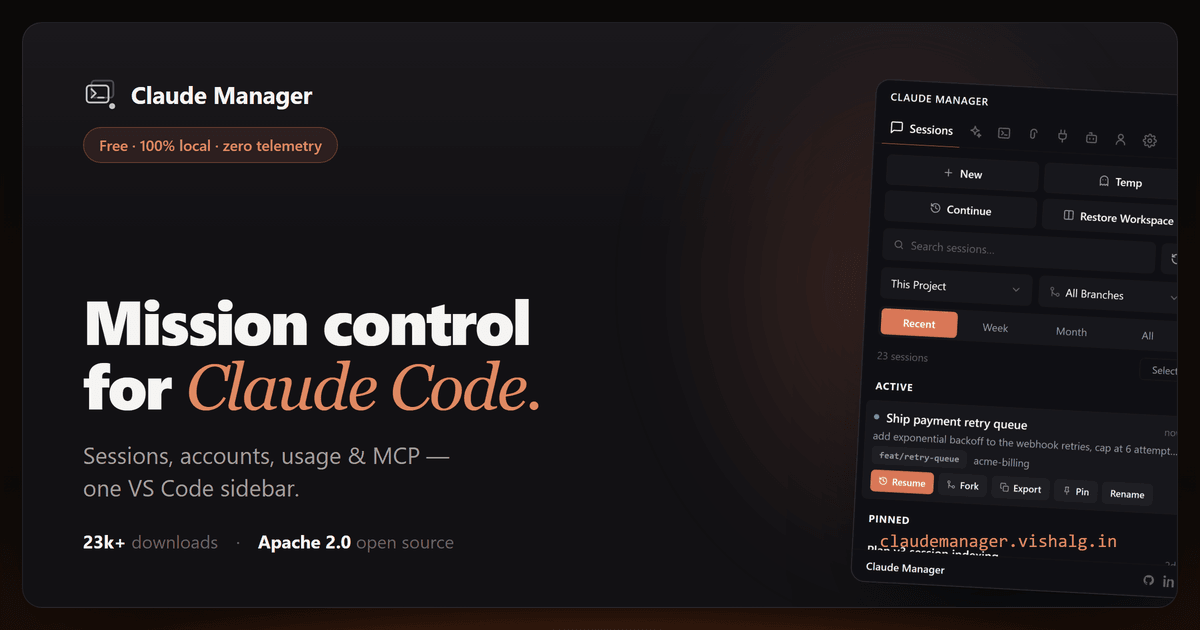
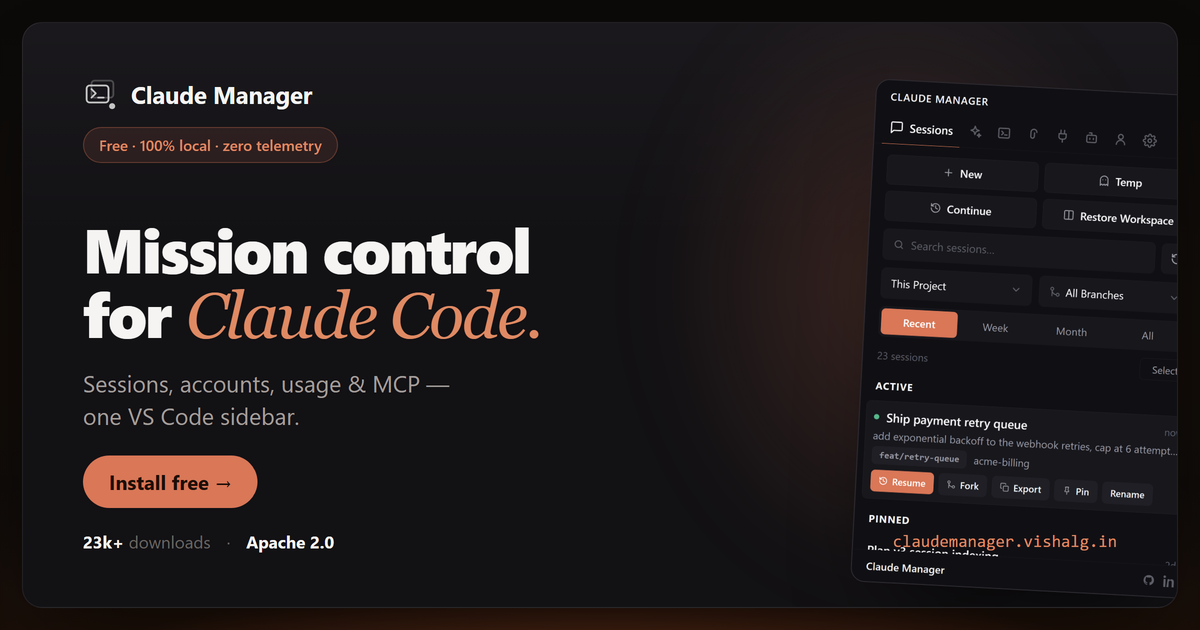
fix(site): trim meta titles/descriptions under limits + OG CTA
- title 80->54, meta desc 247->147 (Google snippet fit)
- og/twitter title 61->52, description 154->112 (no social truncation)
- og.png: add "Install free" CTA button (click-through lift)

Changed region(s): [[0.0617, 0.3619, 0.4625, 0.8143], [0.0617, 0.8444, 0.37, 0.8746], [0.74, 0.8444, 0.925, 0.8746]]

diff --git a/site/index.html b/site/index.html
@@ -5,8 +5,8 @@
   <meta name="viewport" content="width=device-width, initial-scale=1.0">
   <meta name="theme-color" content="#0c0a09">
 
-  <title>Claude Manager — Manage Claude Code Sessions, MCP, Skills &amp; Usage in VS Code</title>
-  <meta name="description" content="Claude Manager is a free VS Code extension to browse and resume Claude Code sessions, switch Claude accounts, track token usage, and manage MCP servers, skills, slash commands, hooks, and agents — all from your sidebar. 100% local, zero telemetry.">
+  <title>Claude Manager — Claude Code Sessions &amp; MCP in VS Code</title>
+  <meta name="description" content="Free, local-first VS Code extension to browse Claude Code sessions, switch accounts, track usage, and manage MCP servers, skills, hooks and agents.">
   <meta name="keywords" content="Claude Manager, Claude Code, Claude account switcher, Claude session manager, Claude usage tracker, MCP manager, VS Code extension, Anthropic, Cursor, Windsurf">
   <meta name="author" content="Vishal Gupta">
   <meta name="robots" content="index, follow, max-image-preview:large">
@@ -15,8 +15,8 @@
   <meta property="og:type" content="website">
   <meta property="og:site_name" content="Claude Manager">
   <meta property="og:url" content="https://claudemanager.vishalg.in/">
-  <meta property="og:title" content="Claude Manager — Manage Claude Code from your VS Code sidebar">
-  <meta property="og:description" content="Browse and resume Claude Code sessions, switch accounts, track usage, and manage MCP servers, skills, hooks, and agents. Free, 100% local, zero telemetry.">
+  <meta property="og:title" content="Claude Manager — Claude Code in your VS Code sidebar">
+  <meta property="og:description" content="Browse Claude Code sessions, switch accounts, track usage, manage MCP, skills, hooks & agents. Free, 100% local.">
   <meta property="og:image" content="https://claudemanager.vishalg.in/assets/og.png">
   <meta property="og:image:width" content="1200">
   <meta property="og:image:height" content="630">
@@ -24,8 +24,8 @@
   <meta property="og:image:alt" content="Claude Manager — mission control for Claude Code, in your VS Code sidebar">
 
   <meta name="twitter:card" content="summary_large_image">
-  <meta name="twitter:title" content="Claude Manager — Manage Claude Code from your VS Code sidebar">
-  <meta name="twitter:description" content="Browse and resume Claude Code sessions, switch accounts, track usage, and manage MCP servers, skills, hooks, and agents. Free, 100% local, zero telemetry.">
+  <meta name="twitter:title" content="Claude Manager — Claude Code in your VS Code sidebar">
+  <meta name="twitter:description" content="Browse Claude Code sessions, switch accounts, track usage, manage MCP, skills, hooks & agents. Free, 100% local.">
   <meta name="twitter:image" content="https://claudemanager.vishalg.in/assets/og.png">
 
   <link rel="icon" type="image/svg+xml" href="assets/icon.svg">